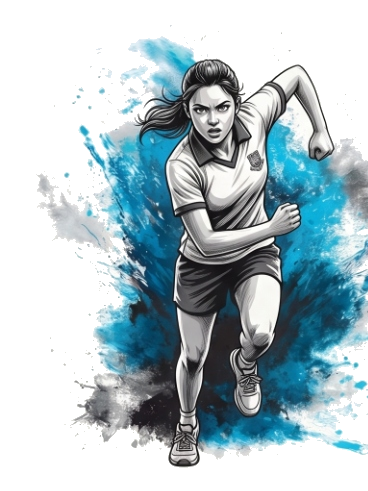
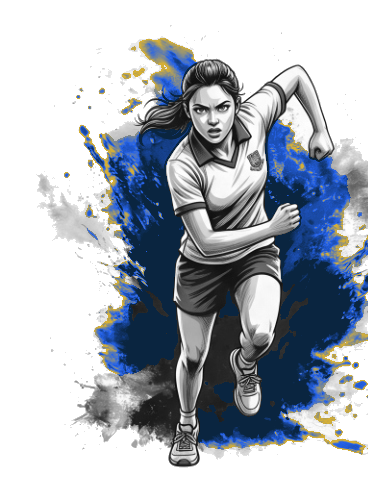
Fix: Recrop netball player to clean up debris and apply unified gold-and-blue duotone color theme to all sports images

diff --git a/scratch/apply_theme.py b/scratch/apply_theme.py
@@ -1,0 +1,71 @@
+import os
+from PIL import Image
+
+def apply_school_theme(file_path):
+    if not os.path.exists(file_path):
+        print(f"Error: {file_path} does not exist.")
+        return
+        
+    img = Image.open(file_path).convert("RGBA")
+    width, height = img.size
+    pixels = img.load()
+    
+    # Brand Colors:
+    # Navy: (10, 37, 64)
+    # Royal Blue: (37, 99, 235)
+    # Gold: (212, 175, 55)
+    
+    for y in range(height):
+        for x in range(width):
+            r, g, b, a = pixels[x, y]
+            if a > 0:
+                # Calculate saturation
+                sat = max(r, g, b) - min(r, g, b)
+                
+                # Grayscale value for brightness mapping
+                v = int(0.299 * r + 0.587 * g + 0.114 * b)
+                
+                if sat >= 28: # Colorful Splash
+                    # Map v (from ~80 to ~230) to a normalized value t between 0 and 1
+                    t = (v - 95) / (225 - 95)
+                    t = max(0.0, min(1.0, t))
+                    
+                    # 3-stop interpolation: Navy -> Royal Blue -> Gold
+                    if t < 0.45:
+                        # Interpolate Navy (10, 37, 64) -> Royal Blue (37, 99, 235)
+                        factor = t / 0.45
+                        nr = int((1.0 - factor) * 10 + factor * 37)
+                        ng = int((1.0 - factor) * 37 + factor * 99)
+                        nb = int((1.0 - factor) * 64 + factor * 235)
+                    else:
+                        # Interpolate Royal Blue (37, 99, 235) -> Gold (212, 175, 55)
+                        factor = (t - 0.45) / 0.55
+                        nr = int((1.0 - factor) * 37 + factor * 212)
+                        ng = int((1.0 - factor) * 99 + factor * 175)
+                        nb = int((1.0 - factor) * 235 + factor * 55)
+                        
+                    pixels[x, y] = (nr, ng, nb, a)
+                else: # Monochrome Sketch (Outlines/Shades)
+                    # Convert to clean grayscale to remove JPEG color noise
+                    pixels[x, y] = (v, v, v, a)
+                    
+    img.save(file_path, "PNG")
+    print(f"Theme applied successfully to {os.path.basename(file_path)}")
+
+def process_all():
+    sports_dir = r"public\images\sports"
+    sports_images = [
+        "athletics.png",
+        "basketball_netball.png",
+        "swimming.png",
+        "chess.png",
+        "scouting_cadet.png",
+        "cricket.png"
+    ]
+    
+    for filename in sports_images:
+        path = os.path.join(sports_dir, filename)
+        apply_school_theme(path)
+
+if __name__ == "__main__":
+    process_all()

diff --git a/scratch/crop_netball.py b/scratch/crop_netball.py
@@ -77,26 +77,28 @@ def fix_netball():
     sheet = Image.open(sheet_path).convert("RGBA")
     w, h = sheet.size
     
-    # 1. Crop a wider quadrant to ensure hand/arm is 100% inside
-    # (from 37% of width to 67% of width)
+    # 1. Crop a wider quadrant (from 37% to 67% of width)
     netball_quad = (int(w * 0.37), 0, int(w * 0.67), int(h * 0.48))
     cropped = sheet.crop(netball_quad)
     
     cw, ch = cropped.size
     pixels = cropped.load()
     
-    # 2. Erase neighbor colors (blue runner splash on left, red sprinter splash on right)
-    # A pixel is blueish if B is dominant, reddish if R is dominant.
-    # We turn them to solid white so the crop & transparency ignores them!
+    # 2. Erase non-green, non-grey debris pixels
     for y in range(ch):
         for x in range(cw):
             r, g, b, a = pixels[x, y]
-            # Detect blue splash (B is significantly greater than R and G)
-            if b > 90 and (b - g) > 15 and (b - r) > 15:
-                pixels[x, y] = (255, 255, 255, 255)
-            # Detect red splash (R is significantly greater than G and B)
-            elif r > 90 and (r - g) > 15 and (r - b) > 15:
-                pixels[x, y] = (255, 255, 255, 255)
+            
+            # Check if it is background white
+            is_white = r > 240 and g > 240 and b > 240
+            # Check if it is grey/black (player lines)
+            is_grey = max(r, g, b) - min(r, g, b) < 25
+            # Check if it is green splash
+            is_green = g > r + 6 and g > b + 6
+            
+            # If it is not white, not grey, and not green, it must be blue/red debris from neighbors!
+            if not is_white and not is_grey and not is_green:
+                pixels[x, y] = (255, 255, 255, 255) # erase to white
                 
     # 3. Apply tight crop on the cleaned image
     cropped_tight = tight_crop(cropped)
@@ -106,7 +108,7 @@ def fix_netball():
     
     # 5. Save output
     transparent_img.save(out_path, "PNG")
-    print(f"Success! Saved basketball_netball.png with size {transparent_img.size}")
+    print(f"Success! Saved cleaned basketball_netball.png with size {transparent_img.size}")
 
 if __name__ == "__main__":
     fix_netball()
